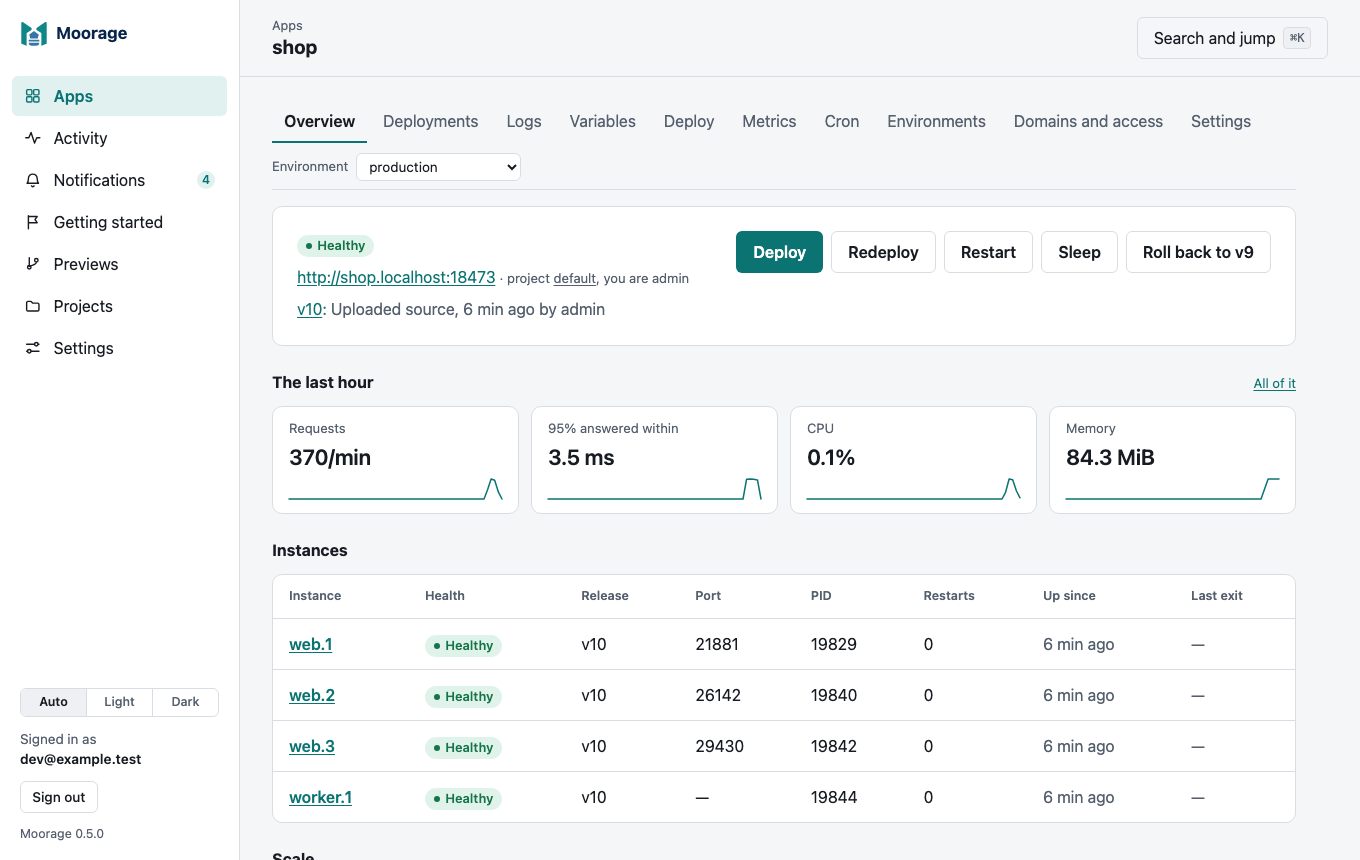
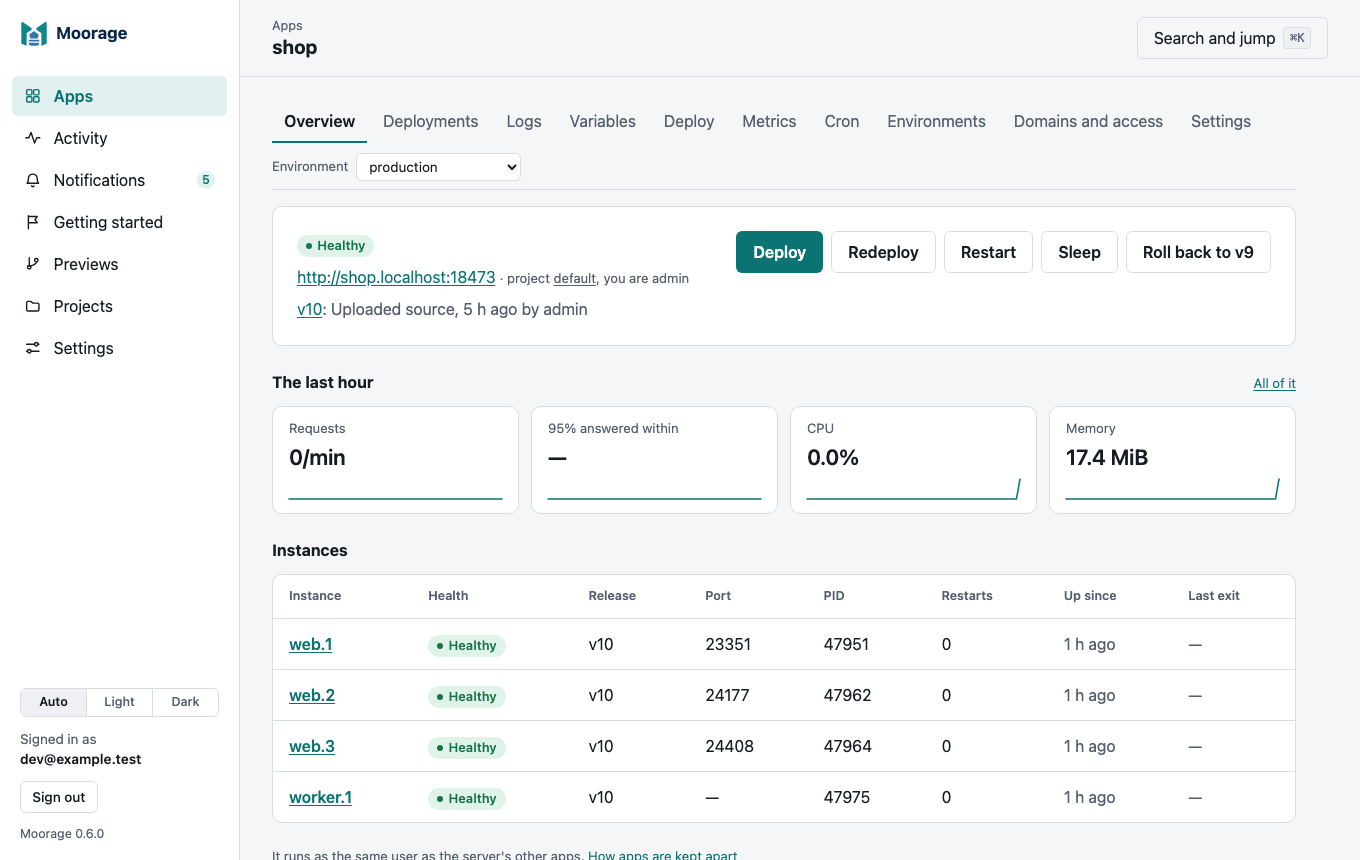
Release 0.6.0

diff --git a/internal/buildinfo/buildinfo.go b/internal/buildinfo/buildinfo.go
@@ -9,7 +9,7 @@ import (
 // Version is the version being developed or released. The release workflow
 // refuses a tag vX.Y.Z that does not match it, so it is set to the release
 // number by the last slice of each wave.
-var Version = "0.5.0"
+var Version = "0.6.0"
 
 // Info describes the running binary.
 type Info struct {

diff --git a/CHANGELOG.md b/CHANGELOG.md
@@ -1,18 +1,29 @@
 # Changelog
 
-## Unreleased
+## 0.6.0 (2026-11-04)
+
+Moorage 0.6.0 is about a server you can rely on. On Linux, apps are kept apart from one another. Backups and restoring are built in, and were tried on real services. People can sign in with a second factor, through your identity provider, or through a proxy. A server can upgrade itself, and go back. Moorage is now open source, under the Apache License 2.0.
+
+To upgrade from 0.5.0, run the installer once and restart the server, as `moor server upgrade` starts with this version. Running apps are taken over without a restart. Some things behave differently:
+
+- **On a server that runs as root on Linux, apps get users of their own as they next start.** That is the system service, as `level = "auto"` under `[isolation]` means this. An app can then only write to `$MOORAGE_DATA_DIR` and `$TMPDIR`, as its build is read-only, and cannot read what only root can. `level = "none"` keeps it as it was while you look into anything that minds. Instances that go on through the upgrade go on as root until they restart: **Settings → System** and the app's page say which, and `moor restart APP` does it with no downtime. See [isolation](docs/isolation.md).
+- **To go back to 0.5.0,** stop the server, put the copy of the database that this version kept in `backups` in the data directory in the place of `moorage.db`, and give the installer `MOOR_VERSION=v0.5.0`. 0.5.0 refuses a database that has moved on.
+- **A site's directory has to be inside its build.** One reached through a link to somewhere else now fails the build.
 
 ### Added
 
-- **A deployment could bring the release before it back.** What keeps instances running could look at the current release just before a deployment recorded the new one, and start an instance of the old one after the rollout had finished. That instance then took the traffic, until the next deployment. It was rare, and has been possible since 0.1.0. A release is now recorded before its instances take the traffic, and an instance of any other release is stopped.
-- **Node.js downloads are checked against its signature (wave 6, slice 4).** The checksums of a Node.js release have to be signed by one of its releasers, whose keys come with moor. A new releaser's key needs a new moor, or `signatures = "warn"` under `[toolchains]`. A signature that is wrong is always refused.
-- **The server's configuration, as a file (wave 6, slice 4).** `moor server config export` writes out people, projects, registries, notifications, backups and sign-in, with no secrets, and `moor server config import` brings it in on that server or another, with `--dry-run` to look first. See [the server's configuration](docs/backups.md#the-servers-configuration).
-- **`moor server upgrade` (wave 6, slice 4).** A server upgrades itself: it checks a release's signature and checksum, keeps a copy of the database and the binary, swaps them, restarts, and goes back by itself if the new version does not come up. `--rollback` goes back later on. Apps keep running throughout. Releases now come with a list of what went into them, and an attestation of the workflow that built them. See [upgrading](docs/install.md#upgrading).
-- **Single sign-on (wave 6, slice 3).** **Settings → Sign-in** connects to any OpenID Connect provider, with accounts made the first time, roles from groups, and an option to turn off passwords. `trusted_header` under `[auth]` believes a proxy that signs people in. See [how people sign in](docs/sign-in.md).
-- **Two-factor sign-in (wave 6, slice 3).** **Your account → Two-factor** adds a code from an authenticator app to signing in, with recovery codes for if you lose it. See [accounts](docs/accounts.md#two-factor-sign-in).
-- **Backups (wave 6, slice 2).** `moor server backup` and **Settings → Backups** make a backup of a running server, on demand or on a schedule, to a directory or a bucket on S3 or a service like it. `moor server restore` brings it all back: apps, data, secrets and accounts. A restore checks everything before it changes anything, and is tried in CI. See [backups](docs/backups.md).
-- **Apps kept apart on Linux (wave 6, slice 1).** A server running as root gives each app an operating system user of its own, and its builds another: its data is its own, its build is read-only, and other apps cannot read its secrets. `level = "sandbox"` under `[isolation]` in `server.toml` adds Landlock and `no_new_privs`. See [how apps are kept apart](docs/isolation.md).
+- **Apps kept apart on Linux.** A server running as root gives each app an operating system user of its own, and its builds another: its data is its own, its build is read-only, and other apps cannot read its secrets. `level = "sandbox"` under `[isolation]` in `server.toml` adds Landlock and `no_new_privs`. See [how apps are kept apart](docs/isolation.md).
 - **`[resources]` outside containers.** Memory, CPU and process limits for any app, enforced by the kernel where the server runs as root on Linux. Elsewhere an instance that stays over its memory limit is restarted, and the console says what is not held to. An instance killed for its memory says that it ran out of memory.
+- **Backups.** `moor server backup` and **Settings → Backups** make a backup of a running server, on demand or on a schedule, to a directory or a bucket on S3 or a service like it. `moor server restore` brings it all back: apps, data, secrets and accounts. A restore checks everything before it changes anything, and is tried in CI. See [backups](docs/backups.md).
+- **Two-factor sign-in.** **Your account → Two-factor** adds a code from an authenticator app to signing in, with recovery codes for if you lose it. See [accounts](docs/accounts.md#two-factor-sign-in).
+- **Single sign-on.** **Settings → Sign-in** connects to any OpenID Connect provider, with accounts made the first time, roles from groups, and an option to turn off passwords. `trusted_header` under `[auth]` believes a proxy that signs people in. See [how people sign in](docs/sign-in.md).
+- **`moor server upgrade`.** A server upgrades itself: it checks a release's signature and checksum, keeps a copy of the database and the binary, swaps them, restarts, and goes back by itself if the new version does not come up. `--rollback` goes back later on. Apps keep running throughout. Releases now come with a list of what went into them, and an attestation of the workflow that built them. See [upgrading](docs/install.md#upgrading).
+- **The server's configuration, as a file.** `moor server config export` writes out people, projects, registries, notifications, backups and sign-in, with no secrets, and `moor server config import` brings it in on that server or another, with `--dry-run` to look first. See [the server's configuration](docs/backups.md#the-servers-configuration).
+- **Node.js downloads are checked against its signature.** The checksums of a Node.js release have to be signed by one of its releasers, whose keys come with moor. A new releaser's key needs a new moor, or `signatures = "warn"` under `[toolchains]`. A signature that is wrong is always refused.
+
+### Fixed
+
+- **A deployment could bring the release before it back.** What keeps instances running could look at the current release just before a deployment recorded the new one, and start an instance of the old one after the rollout had finished. That instance then took the traffic, until the next deployment. It was rare, and has been possible since 0.1.0. A release is now recorded before its instances take the traffic, and an instance of any other release is stopped.
 
 ## 0.5.0 (2026-11-04)
 

diff --git a/README.md b/README.md
@@ -209,20 +209,22 @@ server](docs/tls.md) certificates, [Behind a TLS proxy](docs/proxy.md) nginx, an
 
 ## Status
 
-Moorage 0.5.0 is a server on Linux or macOS for a team: it builds and deploys
+Moorage 0.6.0 is a server on Linux or macOS for a team: it builds and deploys
 apps from their source or a `git push`, in containers or not, with accounts, projects
 and roles, an audit log and a [web console](docs/console.md). Every branch can have
 [its own preview and address](docs/previews.md), which sleeps when idle, and [who can
 reach it](docs/access.md) is up to you: a password, a sign-in, a share link. Apps can have
 [domains of their own](docs/domains.md), [cron jobs and one-off commands](docs/cron.md),
 [metrics](docs/metrics.md) and [notifications](docs/notifications.md) when something goes
-wrong. On Windows, `moor` works as a command line and `moor server run` works; the Windows
-service comes later.
+wrong. On Linux, [each app runs as a user of its own](docs/isolation.md). [Backups](docs/backups.md)
+are built in, people can sign in with [a second factor, or through your identity provider](docs/sign-in.md),
+and a server [upgrades itself](docs/install.md#upgrading), with a way back. On Windows, `moor` works as a
+command line and `moor server run` works; the Windows service comes later.
 
 Next, in the [roadmap](spec/11-roadmap.md):
 
-- **0.6.0, hardened:** apps isolated from one another on Linux, backups to a path or S3,
-  single sign-on and two-factor sign-in, and upgrading itself with a way back.
+- **0.7.0, Windows, forges and the terminal:** the Windows service, deployments from a forge's
+  webhooks, and a terminal in the console.
 
 ## Building Moorage
 

diff --git a/docs/install.md b/docs/install.md
@@ -1,7 +1,7 @@
 # Installing Moorage
 
 Moorage is one program, `moor`: the server and the command line that talks
-to it. Version 0.5.0 runs on Linux and macOS (amd64 and arm64); on Windows,
+to it. Version 0.6.0 runs on Linux and macOS (amd64 and arm64); on Windows,
 `moor` runs as a command line and `moor server run` works, but installing the
 server as a service arrives in a later release.
 
@@ -52,18 +52,18 @@ sudo sh install-moor.sh
 
 | Variable | `install.sh` | `install.ps1` | |
 |---|---|---|---|
-| `MOOR_VERSION` | `--version` | `-Version` | A release, such as `v0.5.0`. By default, the latest |
+| `MOOR_VERSION` | `--version` | `-Version` | A release, such as `v0.6.0`. By default, the latest |
 | `MOOR_INSTALL_DIR` | `--install-dir` | `-InstallDir` | An absolute directory |
 | `MOOR_REPOSITORY` | | `-Repository` | `owner/repository`, for a fork |
 | `MOOR_ARCH` | | `-Architecture` | `amd64` or `arm64`, if detecting it fails |
 | `MOOR_NO_PATH_UPDATE` | | `-NoPathUpdate` | Leave the user `PATH` alone |
 
 ```bash
-curl --proto '=https' --tlsv1.2 -fsSL https://raw.githubusercontent.com/robert-mcdermott/moorage/main/install.sh | MOOR_VERSION=v0.5.0 sh
+curl --proto '=https' --tlsv1.2 -fsSL https://raw.githubusercontent.com/robert-mcdermott/moorage/main/install.sh | MOOR_VERSION=v0.6.0 sh
 ```
 
 ```powershell
-$env:MOOR_VERSION = 'v0.5.0'; irm https://raw.githubusercontent.com/robert-mcdermott/moorage/main/install.ps1 | iex
+$env:MOOR_VERSION = 'v0.6.0'; irm https://raw.githubusercontent.com/robert-mcdermott/moorage/main/install.ps1 | iex
 ```
 
 **On Windows,** `irm … | iex` reads the script into memory and runs it, so the

diff --git a/docs/manifest.md b/docs/manifest.md
@@ -3,7 +3,7 @@
 `moorage.toml`, at the top of an app's directory, says how Moorage builds
 and runs the app. It is optional: without it, Moorage detects the kind of
 app (see [Detection](#detection)), and `moor manifest explain` shows what it
-detected. This page describes the manifest as Moorage 0.5.0 implements it;
+detected. This page describes the manifest as Moorage 0.6.0 implements it;
 the [design](../spec/03-manifest.md) describes what later releases add.
 
 ```bash

diff --git a/spec/11-roadmap.md b/spec/11-roadmap.md
@@ -1023,7 +1023,7 @@ directory, supervises it, and serves it on its own hostname.
      running `ps` so often. Windows says that access is denied when a folder has a file's name, so
      that errors should go by what is there, and not by what the error says.
 
-## 0.6.0: hardened (planned)
+## 0.6.0: hardened (released 2026-11-04)
 
 ### Wave 6
 

diff --git a/docs/README.md b/docs/README.md
@@ -1,7 +1,7 @@
 # Moorage documentation
 
 How to install Moorage, run it, and deploy apps to it. This documentation
-describes Moorage 0.5.0; the [design documents](../spec/README.md) describe
+describes Moorage 0.6.0; the [design documents](../spec/README.md) describe
 how it works inside and where it is going.
 
 ## Start here

diff --git a/docs/troubleshooting.md b/docs/troubleshooting.md
@@ -12,7 +12,7 @@ server's files.
 
 ```text
 ✔ config         /etc/moorage/server.toml
-✔ server         running 0.5.0 on :80
+✔ server         running 0.6.0 on :80
 ✔ listen.http    answering on :80
 ✔ listen.https   answering on :443
 ✔ listen.ssh     answering on :2222
